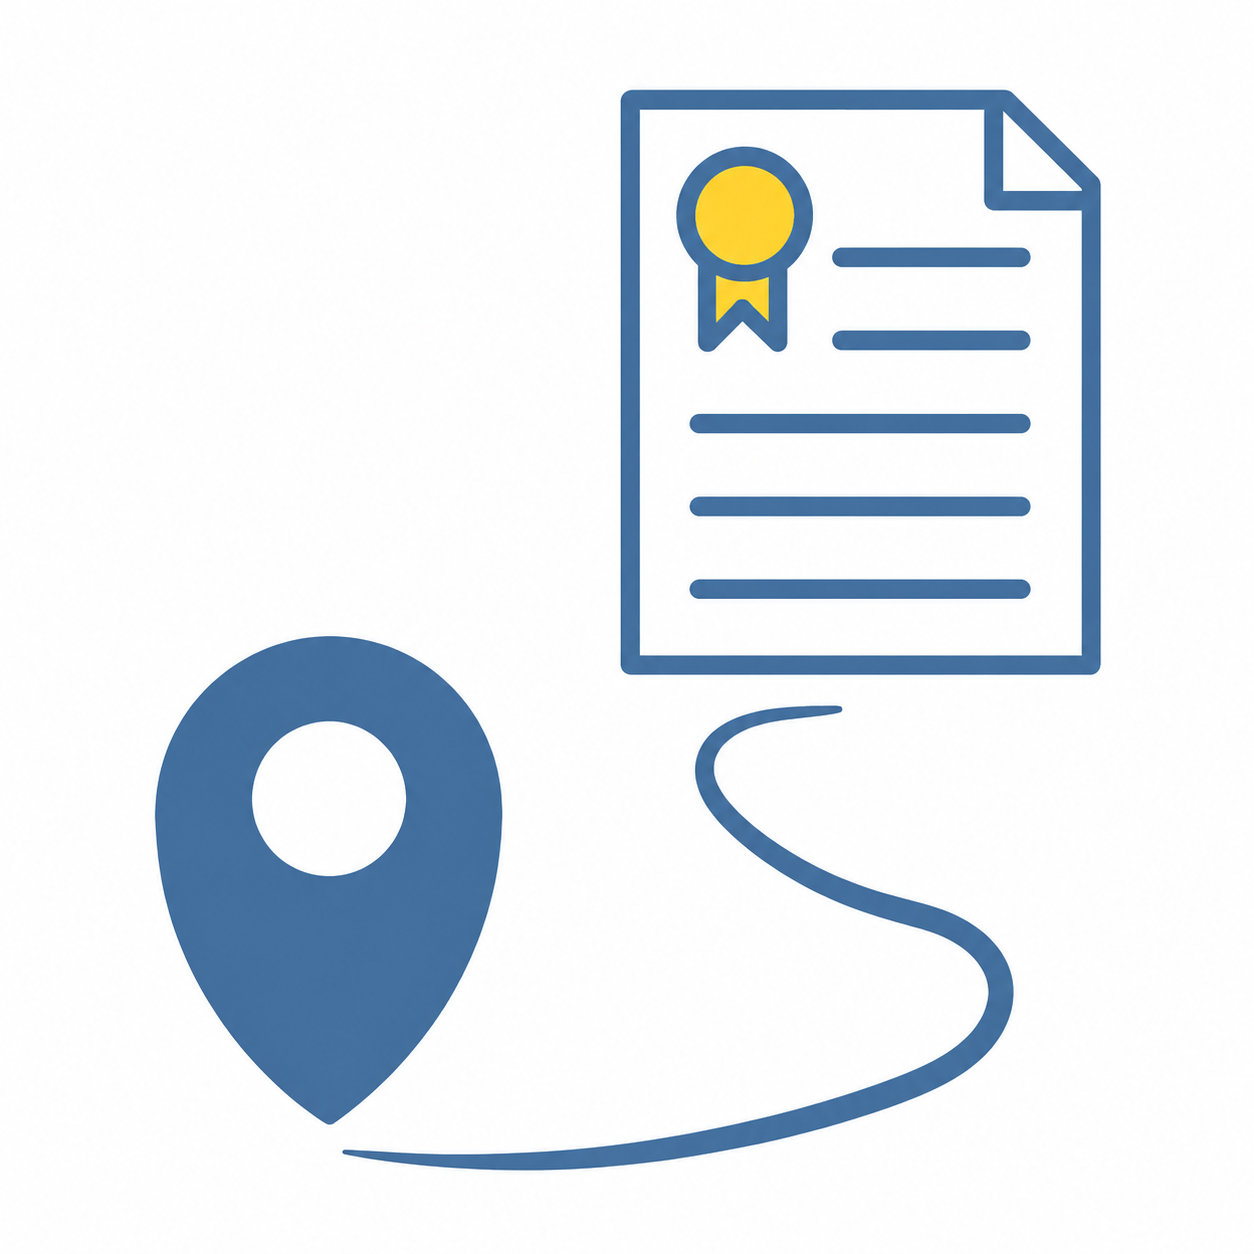
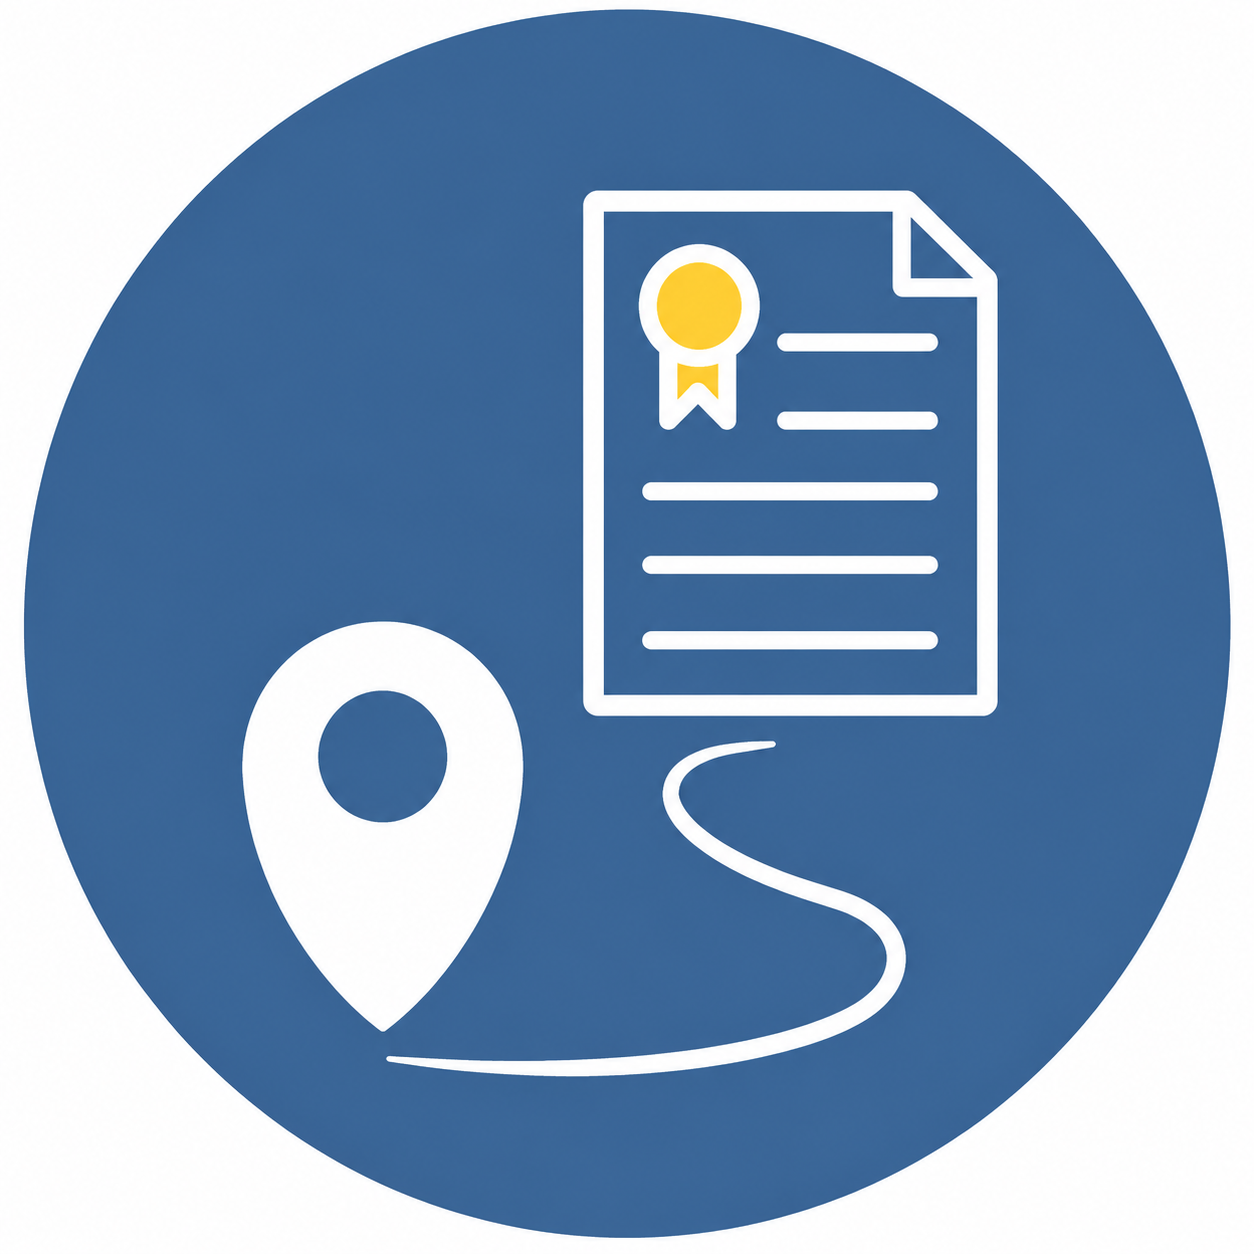
edits

diff --git a/_includes/contact.html b/_includes/contact.html
@@ -23,27 +23,27 @@
                 </div>
 
                 <form id="contactForm" novalidate>
-                    <div class="row" style="display: flex; flex-wrap: wrap;">
+                    <div class="row contact-row-desktop">
                         
                         <!-- LEFT COLUMN: Contact Details -->
-                        <div class="col-md-6" style="display: flex; flex-direction: column; justify-content: space-between;">
-                            <div class="control-group form-group">
-                                <input type="text" name="name" class="form-control" placeholder="{{ t.contact.name_placeholder }}" id="name" required data-fs-field style="min-height: 80px; margin-bottom: 20px; width: 100%;">
+                        <div class="col-md-6 left-inputs-col">
+                            <div class="control-group form-group form-field-wrapper">
+                                <input type="text" name="name" class="form-control" placeholder="{{ t.contact.name_placeholder }}" id="name" required data-fs-field>
                                 <span data-fs-error="name" class="text-danger"></span>
                             </div>
-                            <div class="control-group form-group">
-                                <input type="email" name="email" class="form-control" placeholder="{{ t.contact.email_placeholder }}" id="email" required data-fs-field style="min-height: 80px; margin-bottom: 20px; width: 100%;">
+                            <div class="control-group form-group form-field-wrapper">
+                                <input type="email" name="email" class="form-control" placeholder="{{ t.contact.email_placeholder }}" id="email" required data-fs-field>
                                 <span data-fs-error="email" class="text-danger"></span>
                             </div>
-                            <div class="control-group form-group" style="margin-bottom: 20px;">
-                                <input type="text" name="referral" class="form-control" placeholder="{{ t.contact.referral_placeholder }}" id="referral" data-fs-field style="min-height: 80px; width: 100%;">
+                            <div class="control-group form-group form-field-wrapper">
+                                <input type="text" name="referral" class="form-control" placeholder="{{ t.contact.referral_placeholder }}" id="referral" data-fs-field>
                             </div>
                         </div>
                         
-                        <!-- RIGHT COLUMN: Service Selection Checkboxes (Stretched Vertically) -->
-                        <div class="col-md-6" style="display: flex; flex-direction: column;">
-                            <div class="form-group service-selection-container" style="margin-bottom: 20px; background: #f9fbfd; padding: 20px 24px; border-radius: 8px; border: 1px solid #e2e8f0; width: 100%; height: 100%; display: flex; flex-direction: column; box-sizing: border-box;">
-                                <label style="font-weight: 700; margin-bottom: 12px; display: block; color: #333; font-size: 15px;">
+                        <!-- RIGHT COLUMN: Service Selection Checkboxes -->
+                        <div class="col-md-6 right-services-col">
+                            <div class="form-group service-selection-container">
+                                <label class="services-label">
                                     {{ t.contact.services_label }}
                                 </label>
                                 
@@ -81,16 +81,16 @@
                             </div>
                         </div>
 
-                        <!-- FULL WIDTH BOTTOM ROW: Message Textarea (Added margin-top for extra gap) -->
-                        <div class="col-lg-12 col-md-12" style="margin-top: 25px;">
-                            <div class="control-group form-group" style="margin-bottom: 20px; width: 100%;">
-                                <textarea name="message" class="form-control" placeholder="{{ t.contact.message_placeholder }}" id="message" required data-fs-field style="width: 100%; min-height: 180px; box-sizing: border-box; resize: vertical;"></textarea>
+                        <!-- FULL WIDTH BOTTOM ROW: Message Textarea -->
+                        <div class="col-lg-12 col-md-12 message-col">
+                            <div class="control-group form-group" style="margin-bottom: 0; width: 100%;">
+                                <textarea name="message" class="form-control message-textarea" placeholder="{{ t.contact.message_placeholder }}" id="message" required data-fs-field></textarea>
                                 <span data-fs-error="message" class="text-danger"></span>
                             </div>
                         </div>
                         
                         <div class="clearfix"></div>
-                        <div class="col-lg-12 text-center" style="margin-top: 10px;">
+                        <div class="col-lg-12 text-center submit-btn-wrapper">
                             <button type="submit" class="btn btn-xl" data-fs-submit-btn>{{ t.contact.submit_btn }}</button>
                         </div>
                     </div>
@@ -100,16 +100,62 @@
     </div>
 </section>
 
-<!-- Custom Styling for Contact Page Checkboxes -->
+<!-- Custom Styles for Mobile & Desktop Layouts -->
 <style>
-    /* 2 Columns of 3 lines grid stretching across container space */
+    /* Base Desktop Styles */
+    .contact-row-desktop {
+        display: flex;
+        flex-wrap: wrap;
+    }
+
+    .left-inputs-col {
+        display: flex;
+        flex-direction: column;
+        justify-content: space-between;
+    }
+
+    .right-services-col {
+        display: flex;
+        flex-direction: column;
+    }
+
+    .form-field-wrapper {
+        margin-bottom: 20px;
+    }
+
+    .form-field-wrapper input {
+        min-height: 80px;
+        width: 100%;
+    }
+
+    .service-selection-container {
+        margin-bottom: 20px;
+        background: #f9fbfd;
+        padding: 20px 24px;
+        border-radius: 8px;
+        border: 1px solid #e2e8f0;
+        width: 100%;
+        height: 100%;
+        display: flex;
+        flex-direction: column;
+        box-sizing: border-box;
+    }
+
+    .services-label {
+        font-weight: 700;
+        margin-bottom: 12px;
+        display: block;
+        color: #333;
+        font-size: 15px;
+    }
+
     .checkbox-grid {
         display: grid;
         grid-template-columns: repeat(2, 1fr);
         column-gap: 15px;
         row-gap: 10px;
         flex: 1;
-        align-content: space-evenly; /* Even vertical distribution */
+        align-content: space-evenly;
     }
 
     .checkbox-item {
@@ -139,10 +185,73 @@
         flex-shrink: 0;
     }
 
-    /* Collapse to 1 column on smaller mobile screens */
-    @media (max-width: 480px) {
+    .message-col {
+        margin-top: 25px;
+    }
+
+    .message-textarea {
+        width: 100%;
+        min-height: 180px;
+        box-sizing: border-box;
+        resize: vertical;
+    }
+
+    .submit-btn-wrapper {
+        margin-top: 20px;
+    }
+
+    /* Mobile Responsive Optimizations (< 768px) */
+    @media (max-width: 767px) {
+        .contact-row-desktop {
+            display: block; /* Standard flow for clean stacked layout */
+        }
+
+        .form-field-wrapper {
+            margin-bottom: 16px;
+        }
+
+        .form-field-wrapper input {
+            min-height: 56px; /* Optimized height for mobile screens */
+            font-size: 16px; /* Prevents auto-zoom on iOS */
+        }
+
+        .service-selection-container {
+            margin-top: 8px;
+            margin-bottom: 16px;
+            padding: 16px;
+        }
+
         .checkbox-grid {
-            grid-template-columns: 1fr;
+            grid-template-columns: 1fr; /* Single column for easy tapping */
+            row-gap: 8px;
+        }
+
+        .checkbox-item {
+            padding: 10px 8px; /* Taller touch targets */
+            font-size: 15px;
+        }
+
+        .checkbox-item input[type="checkbox"] {
+            width: 18px;
+            height: 18px;
+        }
+
+        .message-col {
+            margin-top: 16px;
+        }
+
+        .message-textarea {
+            min-height: 140px;
+            font-size: 16px;
+        }
+
+        .submit-btn-wrapper {
+            margin-top: 25px;
+        }
+
+        .submit-btn-wrapper button {
+            width: 100%; /* Full-width button on mobile */
+            padding: 14px 0;
         }
     }
 </style>

diff --git a/_includes/services.html b/_includes/services.html
@@ -27,7 +27,7 @@
                         <h4 class="service-title-text" style="color: #666; font-size: 14px; text-transform: uppercase; letter-spacing: 1px; margin-top: 0; margin-bottom: 15px;">{{ t.coaching.clarity.badge }}</h4>
                         
                         <div class="service-icon-container" style="margin-bottom: 15px;">
-                            <img src="{{ site.baseurl }}/img/research_clarity_star.png" 
+                            <img src="{{ site.baseurl }}/img/research_clarity_compass.png" 
                                  alt="Research Clarity Session" 
                                  class="service-custom-icon img-responsive">
                         </div>
@@ -59,7 +59,7 @@
                         <h4 class="service-title-text" style="color: #666; font-size: 14px; text-transform: uppercase; letter-spacing: 1px; margin-top: 0; margin-bottom: 15px;">{{ t.coaching.accelerator.badge }}</h4>
                         
                         <div class="service-icon-container" style="margin-bottom: 15px;">
-                            <img src="{{ site.baseurl }}/img/publication_accelerator_blue.png" 
+                            <img src="{{ site.baseurl }}/img/publication_accelerator_blue2.png" 
                                  alt="Publication Accelerator" 
                                  class="service-custom-icon img-responsive">
                         </div>
@@ -109,7 +109,7 @@
                         <h4 class="service-title-text" style="color: #666; font-size: 14px; text-transform: uppercase; letter-spacing: 1px; margin-top: 0; margin-bottom: 15px;">{{ t.services.dev_editing.badge }}</h4>
                         
                         <div class="service-icon-container" style="margin-bottom: 15px;">
-                            <img src="{{ site.baseurl }}/img/substantive editing illustration.png" 
+                            <img src="{{ site.baseurl }}/img/substantive editing blue.png" 
                                  alt="Developmental Editing" 
                                  class="service-custom-icon img-responsive">
                         </div>
